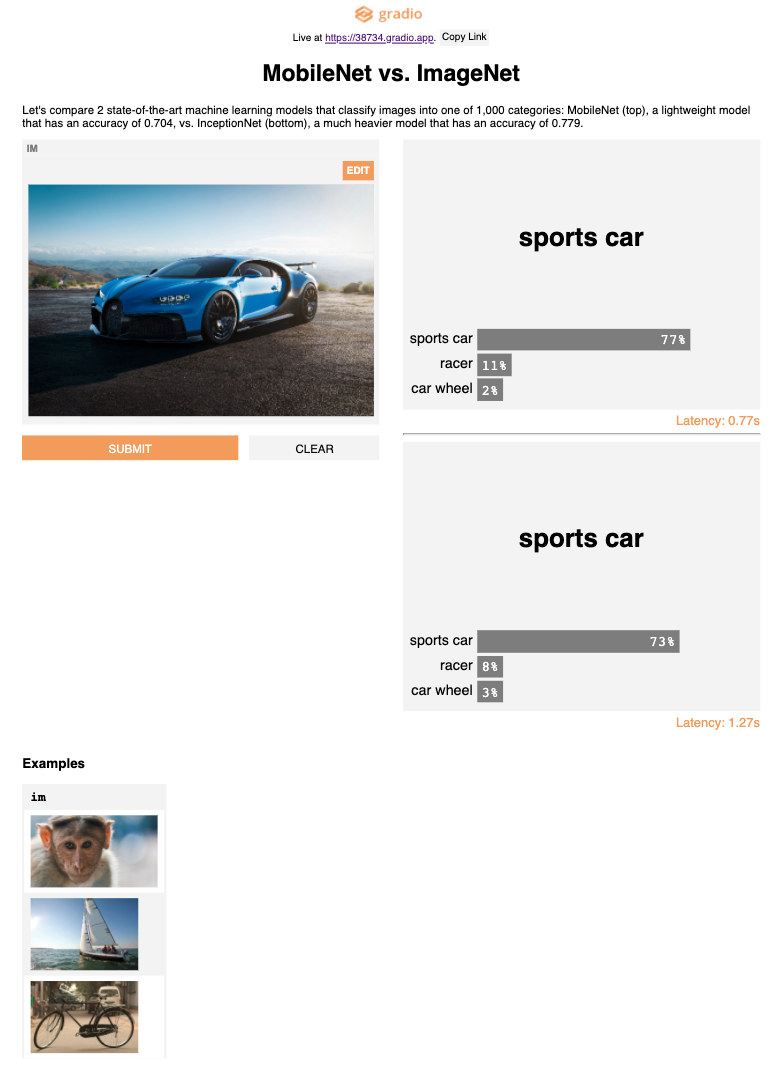
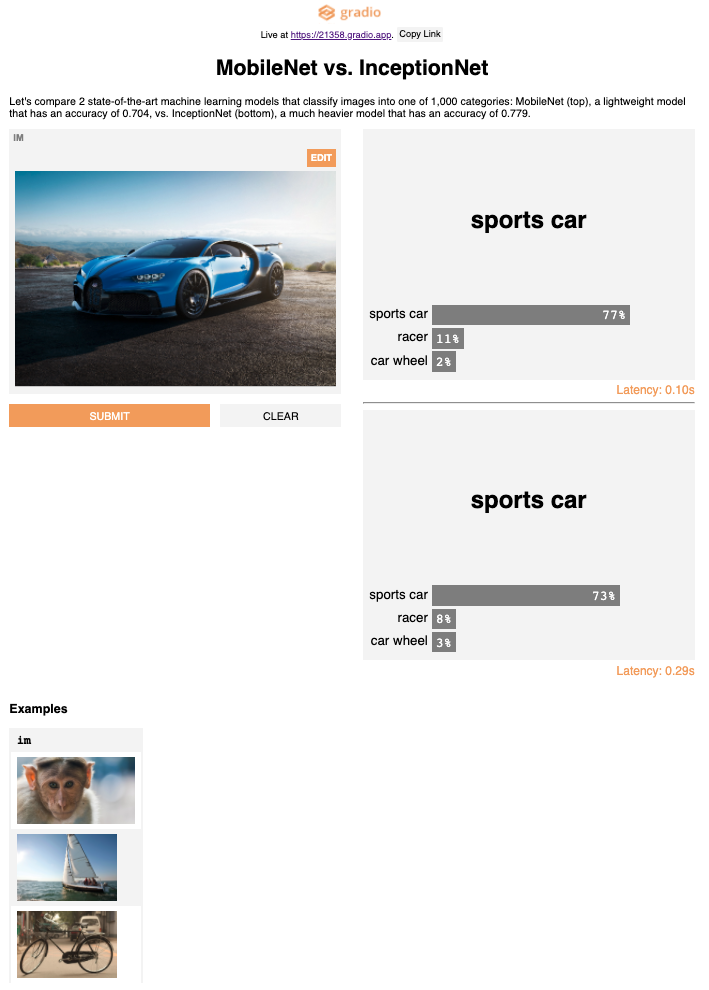
changes from feedback

diff --git a/templates/getting_started.html b/templates/getting_started.html
@@ -41,7 +41,7 @@
 
 
       <a
-            href="https://colab.research.google.com/drive/18ODkJvyxHutTN0P5APWyGFO_xwNcgHDZ?usp=sharing"><img
+            href="https://colab.research.google.com/drive/18ODkJvyxHutTN0P5APWyGFO_xwNcgHDZ?usp=sharing" target="_blank"><img
             src="https://colab.research.google.com/assets/colab-badge.svg"
       /></a></h3>
 
@@ -65,14 +65,16 @@ gr.Interface(fn=greet, inputs="text", outputs="text").launch()</code></pre>
         <img src="static/home/img/hello-world.png">
         </div>
 
-    <h3> 1. MobileNet
+    <h3> 1. MobileNet in Tensorflow
 
       <a
-            href="https://colab.research.google.com/drive/1c6gQiW88wKBwWq96nqEwuQ1Kyt5LejiU?usp=sharing"><img
+            href="https://colab.research.google.com/drive/1c6gQiW88wKBwWq96nqEwuQ1Kyt5LejiU?usp=sharing" target="_blank"><img
             src="https://colab.research.google.com/assets/colab-badge.svg"
       /></a></h3>
 
-      <p>Now, let's do a machine learning example. We're going to wrap an interface around the MobileNet image classifier! S
+      <p>Now, let's do a machine learning example. We're going to wrap an
+          interface around the MobileNet image classifier, which we'll load
+          using Tensorflow! S
           ince this is an image classification model, we will use the <code>Image</code> input interface.
           We'll output a dictionary of labels and their corresponding confidence scores with the <code>Label</code> output
           interface. (The original MobileNet architecture <a href="https://arxiv.org/abs/1704.04861" target="_blank">can be found here</a>)</p>
@@ -108,11 +110,62 @@ gr.Interface(fn=classify_image, inputs=image, outputs=label).launch()</code></pr
         <div class="screenshot">
         <img src="static/home/img/inception-net.png">
         </div>
-
-    <h3> 2. Real-Time MNIST
+    <h3> 2. ResNet in Pytorch
 
       <a
-            href="https://colab.research.google.com/drive/1LXJqwdkZNkt1J_yfLWQ3FLxbG2cAF8p4?usp=sharing"><img
+            href="https://colab.research.google.com/drive/1JC2vJxfCxg2xpJESzZN00QRDk2npzgZ2?usp=sharing" target="_blank"><img
+            src="https://colab.research.google.com/assets/colab-badge.svg"
+      /></a></h3>
+
+        <p>Let's now wrap a very similar model, ResNet, except this time in
+            Pytorch. We'll also use the <code>Image</code>
+            to <code>Label</code> interface. (The original ResNet architecture
+            <a href="https://arxiv.org/abs/1512.03385" target="_blank">can be found here</a>)</p>
+<pre><code class="lang-python">import gradio as gr
+import torch
+from torchvision import transforms
+import requests
+
+model = torch.hub.load('pytorch/vision:v0.6.0', 'resnet18', pretrained=True)
+model.eval()
+
+preprocess = transforms.Compose([
+    transforms.Resize(256),
+    transforms.CenterCrop(224),
+    transforms.ToTensor(),
+    transforms.Normalize(mean=[0.485, 0.456, 0.406], std=[0.229, 0.224, 0.225]),
+])
+
+response = requests.get("https://gist.githubusercontent.com/yrevar/942d3a0ac09ec9e5eb3a/raw/238f720ff059c1f82f368259d1ca4ffa5dd8f9f5/imagenet1000_clsidx_to_labels.txt")
+idx_to_labels = {index : name.split('\'')[1].split(',')[0] for index, name in enumerate(response.text.split("\n"))}
+
+def predict(inp):
+  inp = inp.convert('RGB')
+  inp = inp.resize((224, 224))
+  input_tensor = preprocess(inp)
+  input_batch = input_tensor.unsqueeze(0)
+  if torch.cuda.is_available():
+      input_batch = input_batch.to('cuda')
+      model.to('cuda')
+  with torch.no_grad():
+      output = model(input_batch)
+  prediction = torch.nn.functional.softmax(output[0], dim=0)
+  return {idx_to_labels[i].split(',')[0]: float(prediction[i]) for i in range(1000)}
+
+inputs = gr.inputs.Image(cast_to="pillow")
+outputs = gr.outputs.Label(num_top_classes=3)
+interface = gr.Interface(fn=predict, inputs=inputs, outputs=outputs)
+
+interface.launch()</code></pre>
+      <p>This code will produce the interface below.</p>
+      <div class="screenshot">
+        <img src="static/home/img/resnet.png">
+      </div>
+
+    <h3> 3. Real-Time MNIST
+
+      <a
+            href="https://colab.research.google.com/drive/1LXJqwdkZNkt1J_yfLWQ3FLxbG2cAF8p4?usp=sharing" target="_blank"><img
             src="https://colab.research.google.com/assets/colab-badge.svg"
       /></a></h3>
 
@@ -138,10 +191,10 @@ gr.Interface(fn=recognize_digit, inputs=sketchpad,
         <img src="static/home/img/mnist-live.png">
       </div>
 
-        <h3> 3. GPT-2
+        <h3> 4. GPT-2
 
       <a
-            href="https://colab.research.google.com/drive/1fmt1L6qBzEQo6Nc5t4SPxRCrh7FvxIVc?usp=sharing"><img
+            href="https://colab.research.google.com/drive/1fmt1L6qBzEQo6Nc5t4SPxRCrh7FvxIVc?usp=sharing" target="_blank"><img
             src="https://colab.research.google.com/assets/colab-badge.svg"
       /></a></h3>
 
@@ -167,9 +220,9 @@ gr.Interface(generate_text,"textbox", output_text).launch()</code></pre>
       <img src="static/home/img/gpt-2.png">
     </div>
 
-    <h3> 4. Multiple Inputs: BERT-QA
+    <h3> 5. Multiple Inputs: BERT-QA
       <a
-            href="https://colab.research.google.com/drive/1hYIwl9elB6kv2n7Yl9CpnOYf14hzs9el?usp=sharing"><img
+            href="https://colab.research.google.com/drive/1hYIwl9elB6kv2n7Yl9CpnOYf14hzs9el?usp=sharing" target="_blank"><img
             src="https://colab.research.google.com/assets/colab-badge.svg"
       /></a></h3>
 
@@ -197,10 +250,10 @@ gr.Interface(qa_func,
         <div class="screenshot">
         <img src="static/home/img/bert-qa.png">
         </div>
-        <h3> 5. Numerical Interface: Titanic Model
+        <h3> 6. Numerical Interface: Titanic Model
 
       <a
-            href="https://colab.research.google.com/drive/1yMp-YBfJgyaKG3vMDmDtuCmm4YGY1R6X?usp=sharing"><img
+            href="https://colab.research.google.com/drive/1yMp-YBfJgyaKG3vMDmDtuCmm4YGY1R6X?usp=sharing" target="_blank"><img
             src="https://colab.research.google.com/assets/colab-badge.svg"
       /></a></h3>
 
@@ -232,18 +285,17 @@ gr.Interface(predict_survival, [sex, age, fare], "label", live=True).launch()</c
         <img src="static/home/img/titanic.png">
         </div>
 
-      <h3>6. Multiple Models: Comparing Inception to MobileNet
+      <h3>7. Multiple Models: Comparing Inception to MobileNet
 
       <a
-            href="https://colab.research.google.com/drive/1LsMyL1ksbeEuWrkbCgWWKCVO9Nenv9nA?usp=sharing"><img
+            href="https://colab.research.google.com/drive/1LsMyL1ksbeEuWrkbCgWWKCVO9Nenv9nA?usp=sharing" target="_blank"><img
             src="https://colab.research.google.com/assets/colab-badge.svg"
       /></a></h3>
       <p>What if we want to compare two models? The code below generates a
         UI that takes one image input and returns predictions from both
           <a href="https://arxiv.org/abs/1409.4842" target="_blank">Inception</a> and
           <a href="https://arxiv.org/abs/1704.04861" target="_blank">MobileNet</a>.
-          We'll also add a title and a description. In the colab notebook, we also include
-          sample images.</p>
+          We'll also add a title, description, and sample images.</p>
       <pre><code class="lang-python">import gradio as gr
 from imagenetlabels import idx_to_labels
 import tensorflow as tf
@@ -274,16 +326,24 @@ def classify_image_with_inception_net(im):
 
 imagein = gr.inputs.Image(cast_to="pillow")
 label = gr.outputs.Label(num_top_classes=3)
+sample_images = [
+                 ["https://www.sciencemag.org/sites/default/files/styles/article_main_large/public/cc_BE6RJF_16x9.jpg?itok=nP17Fm9H"],
+                 ["https://www.discoverboating.com/sites/default/files/inline-images/buying-a-sailboat-checklist.jpg"],
+                 ["https://external-preview.redd.it/lG5mI_9Co1obw2TiY0e-oChlXfEQY3tsRaIjpYjERqs.jpg?auto=webp&s=ea81982f44b83efbb803c8cff8953ee547624f70"]
+]
 
 gr.Interface(
     [classify_image_with_mobile_net, classify_image_with_inception_net],
     imagein,
     label,
-    title="MobileNet vs. ImageNet",
-    description="Let's compare 2 state-of-the-art machine learning models that classify images into one of 1,000 categories: MobileNet (top), a lightweight model that has an accuracy of 0.704, vs. InceptionNet (bottom), a much heavier model that has an accuracy of 0.779."
-).launch();</code></pre>
+    title="MobileNet vs. InceptionNet",
+    description="Let's compare 2 state-of-the-art machine learning models
+          that classify images into one of 1,000 categories: MobileNet (top),
+          a lightweight model that has an accuracy of 0.704, vs. InceptionNet
+          (bottom), a much heavier model that has an accuracy of 0.779.",
+    examples=sample_images).launch();</code></pre>
       <p>This code will produce the interface below. Looks like MobileNet is
-          considerably faster! </p>
+          about 3 times faster! </p>
       <div class="big_screenshot" >
         <img src="static/home/img/inception-mobile.png">
       </div>
@@ -313,6 +373,17 @@ gr.Interface(
             <li><code>Textbox(lines=1, placeholder=None, label=None)</code></li>
             <li><code>Image(label=None, plot=False)</code></li>
         </ul>
+
+        <p>Additionally, our <code>Image</code> input interface comes with
+            an 'edit' button which opens tools for cropping, flipping,
+            rotating, drawing over,
+            and applying filters to images. We've found that manipulating
+            images
+            in this way will often reveal hidden flaws in a model. </p>
+
+        <div class="screenshot">
+        <img src="static/home/img/editor.png">
+        </div>
 
         <p>
         <a href="/#contact-box">Let us know</a> what interfaces we should add next, or feel free to

diff --git a/templates/index.html b/templates/index.html
@@ -185,7 +185,11 @@
       <input type="text" name="email" id="email" placeholder="Email">
       <button type="submit" id="submit" class="primary">Submit</button>
     </form>
-  </div>  
+    <p>Running into any issues? Contact us directly with any questions
+      <a href="mailto:team@gradio.app" target="_blank">here</a>, or <a
+              href="https://github.com/gradio-app/gradio-UI/issues/new/choose" target="_blank">open an issue</a>
+      at our github repo.</p>
+  </div>
   <footer>
     <img src="static/home/img/logo_inline.png" />
   </footer>
